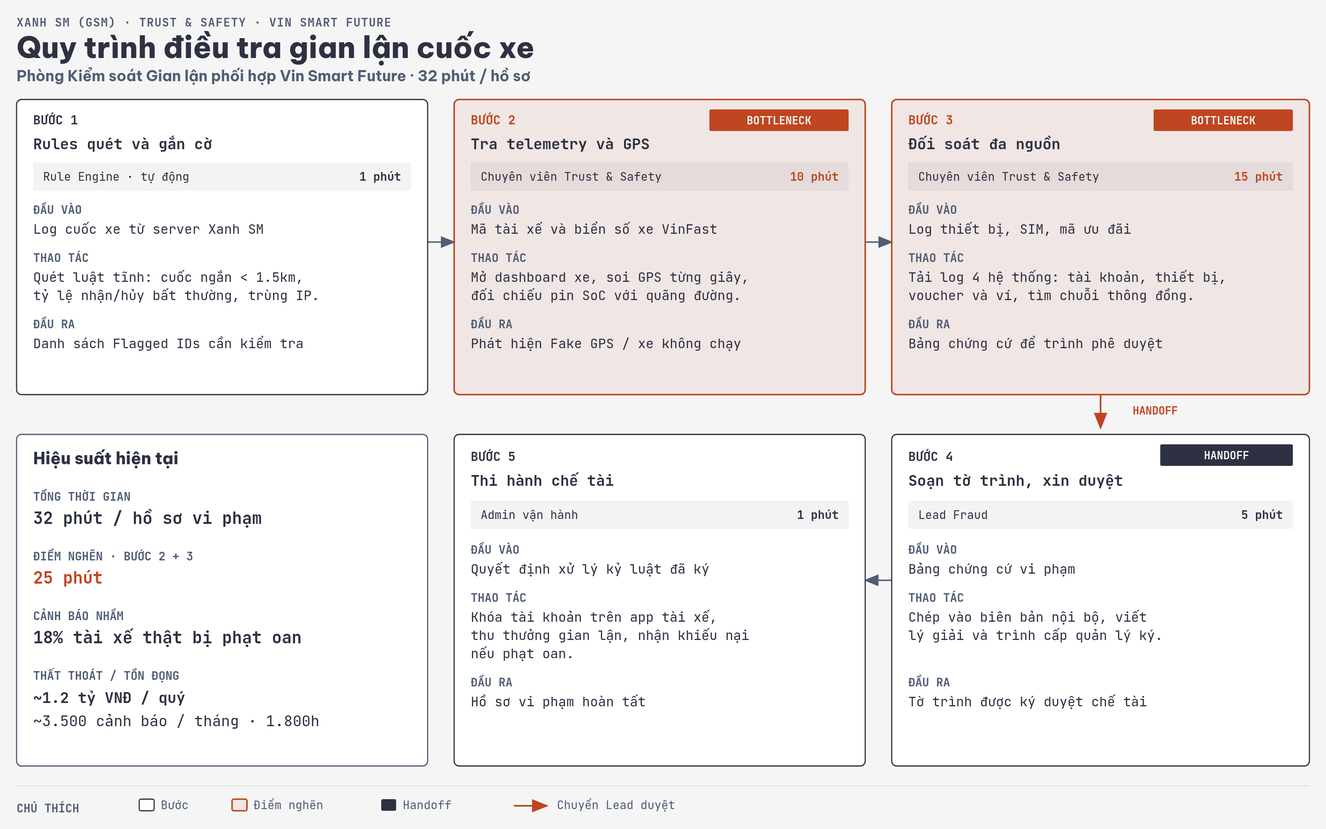
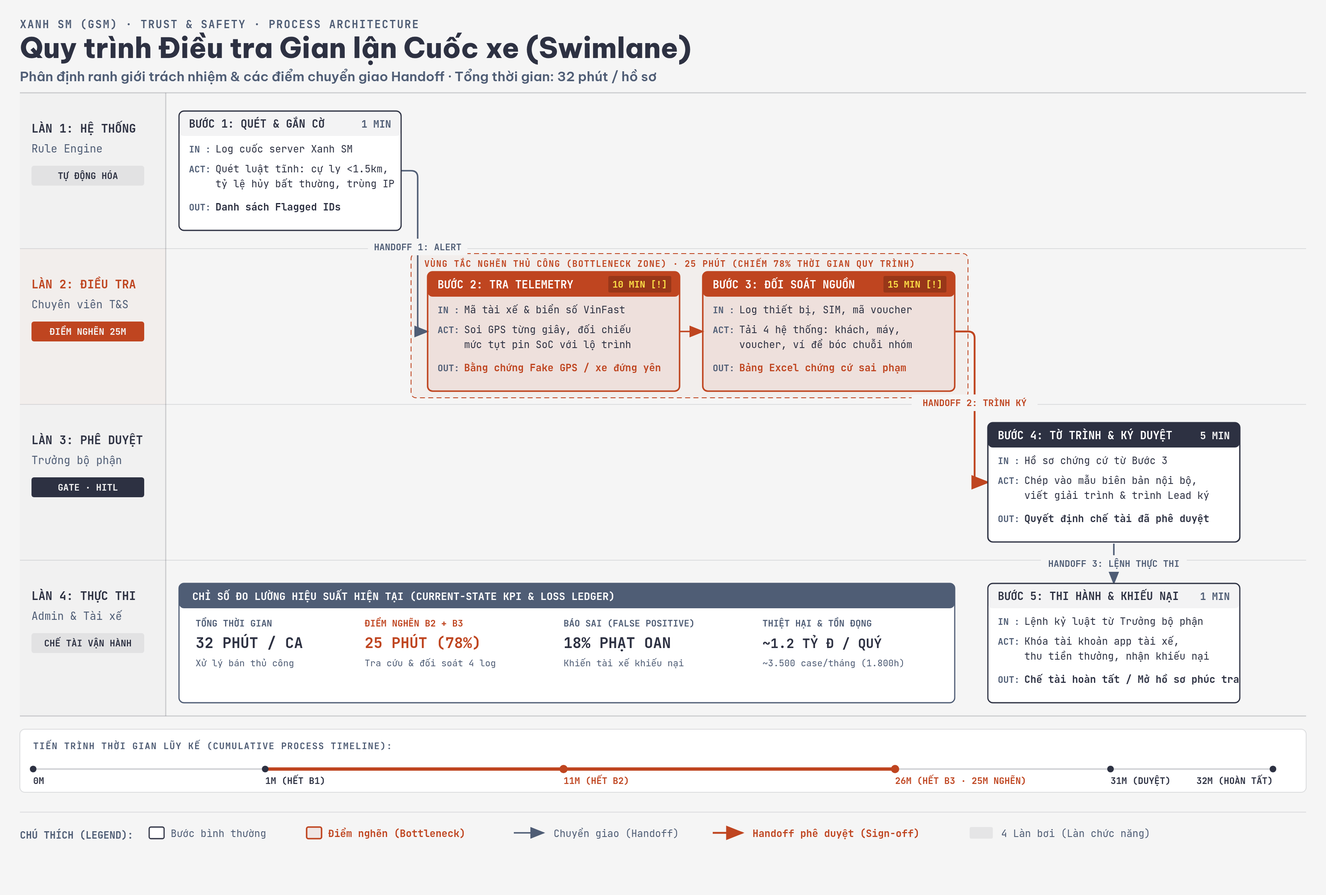
refactor: update workflow diagram to cross-functional swimlane layout

diff --git a/04-workflow-diagram.html b/04-workflow-diagram.html
@@ -3,7 +3,7 @@
 <head>
   <meta charset="UTF-8">
   <meta name="viewport" content="width=device-width, initial-scale=1.0">
-  <title>Quy trình điều tra gian lận hiện tại</title>
+  <title>Quy trình điều tra gian lận hiện tại · Swimlane</title>
   <link href="https://fonts.googleapis.com/css2?family=Be+Vietnam+Pro:wght@600;700;800&family=JetBrains+Mono:wght@400;500;600;700&display=swap" rel="stylesheet">
   <style>
     *, *::before, *::after { box-sizing: border-box; margin: 0; padding: 0; }
@@ -31,7 +31,7 @@
       font-family: var(--font-mono);
       font-size: 0.85rem;
       font-weight: 700;
-      letter-spacing: 0.12em;
+      letter-spacing: 0.14em;
       text-transform: uppercase;
       color: var(--color-muted);
       margin-bottom: 0.35rem;
@@ -53,131 +53,235 @@
 </head>
 <body>
   <div class="frame">
-    <p class="eyebrow">Xanh SM · Current-state workflow</p>
+    <p class="eyebrow">Xanh SM · Cross-functional Swimlane · Current-state</p>
     <h1>Quy trình điều tra gian lận cuốc xe</h1>
     <div class="diagram-container">
-      <svg viewBox="0 0 1600 1000" xmlns="http://www.w3.org/2000/svg" role="img" aria-labelledby="workflow-title workflow-desc">
-        <title id="workflow-title">Quy trình điều tra gian lận hiện tại</title>
-        <desc id="workflow-desc">Năm bước điều tra cuốc xe ảo tại Xanh SM, kèm đầu vào, thao tác và đầu ra. Bước tra GPS và đối soát log là điểm nghẽn, tổng 32 phút mỗi hồ sơ.</desc>
+      <svg viewBox="0 0 1600 1080" xmlns="http://www.w3.org/2000/svg" role="img" aria-labelledby="workflow-title workflow-desc">
+        <title id="workflow-title">Quy trình điều tra gian lận hiện tại (Swimlane)</title>
+        <desc id="workflow-desc">Sơ đồ swimlane 4 làn phân định trách nhiệm điều tra gian lận cuốc xe tại Xanh SM: Rule Engine, Chuyên viên Trust and Safety, Lead phê duyệt, Admin thực thi. Nổi bật hai điểm nghẽn 25 phút và các điểm bàn giao handoff.</desc>
         <defs>
           <marker id="arrow" markerWidth="10" markerHeight="8" refX="9" refY="4" orient="auto"><polygon points="0 0, 10 4, 0 8" fill="#4f5d75"/></marker>
           <marker id="arrow-accent" markerWidth="10" markerHeight="8" refX="9" refY="4" orient="auto"><polygon points="0 0, 10 4, 0 8" fill="#bf4520"/></marker>
           <marker id="arrow-link" markerWidth="10" markerHeight="8" refX="9" refY="4" orient="auto"><polygon points="0 0, 10 4, 0 8" fill="#2e5aa8"/></marker>
         </defs>
-        <rect width="1600" height="1000" fill="#f5f5f5"/>
 
-        <text x="20" y="32" fill="#4f5d75" font-size="14" font-family="'JetBrains Mono', monospace" font-weight="700" letter-spacing="0.06em">XANH SM (GSM) · TRUST &amp; SAFETY · VIN SMART FUTURE</text>
-        <text x="20" y="70" fill="#2d3142" font-size="36" font-family="'Be Vietnam Pro', sans-serif" font-weight="800">Quy trình điều tra gian lận cuốc xe</text>
-        <text x="20" y="98" fill="#4f5d75" font-size="18" font-family="'Be Vietnam Pro', sans-serif" font-weight="700">Phòng Kiểm soát Gian lận phối hợp Vin Smart Future · 32 phút / hồ sơ</text>
+        <!-- Base background -->
+        <rect width="1600" height="1080" fill="#f5f5f5"/>
 
-        <line x1="516" y1="292" x2="548" y2="292" stroke="#4f5d75" stroke-width="1.8" marker-end="url(#arrow)"/>
-        <line x1="1044" y1="292" x2="1076" y2="292" stroke="#4f5d75" stroke-width="1.8" marker-end="url(#arrow)"/>
-        <line x1="1328" y1="476" x2="1328" y2="516" stroke="#bf4520" stroke-width="2" marker-end="url(#arrow-accent)"/>
-        <line x1="1076" y1="700" x2="1044" y2="700" stroke="#4f5d75" stroke-width="1.8" marker-end="url(#arrow)"/>
-        <rect x="1340" y="484" width="108" height="22" fill="#f5f5f5"/>
-        <text x="1394" y="500" fill="#bf4520" font-size="13" font-family="'JetBrains Mono', monospace" font-weight="700" text-anchor="middle">HANDOFF</text>
+        <!-- Header -->
+        <text x="24" y="34" fill="#4f5d75" font-size="13" font-family="'JetBrains Mono', monospace" font-weight="700" letter-spacing="0.10em">XANH SM (GSM) · TRUST &amp; SAFETY · PROCESS ARCHITECTURE</text>
+        <text x="24" y="70" fill="#2d3142" font-size="34" font-family="'Be Vietnam Pro', sans-serif" font-weight="800">Quy trình Điều tra Gian lận Cuốc xe (Swimlane)</text>
+        <text x="24" y="98" fill="#4f5d75" font-size="16" font-family="'Be Vietnam Pro', sans-serif" font-weight="600">Phân định ranh giới trách nhiệm &amp; các điểm chuyển giao Handoff · Tổng thời gian: 32 phút / hồ sơ</text>
 
-        <rect x="20" y="120" width="496" height="356" rx="6" fill="#ffffff" stroke="#2d3142" stroke-width="1.4"/>
-        <text x="40" y="150" fill="#2d3142" font-size="15" font-family="'JetBrains Mono', monospace" font-weight="700">BƯỚC 1</text>
-        <text x="40" y="180" fill="#2d3142" font-size="18" font-family="'JetBrains Mono', monospace" font-weight="700">Rules quét và gắn cờ</text>
-        <rect x="40" y="196" width="456" height="34" rx="2" fill="rgba(45,49,66,0.06)"/>
-        <text x="52" y="218" fill="#2d3142" font-size="14" font-family="'JetBrains Mono', monospace">Rule Engine · tự động</text>
-        <text x="484" y="218" fill="#2d3142" font-size="14" font-family="'JetBrains Mono', monospace" font-weight="700" text-anchor="end">1 phút</text>
-        <text x="40" y="258" fill="#4f5d75" font-size="14" font-family="'JetBrains Mono', monospace" font-weight="700">ĐẦU VÀO</text>
-        <text x="40" y="282" fill="#2d3142" font-size="16" font-family="'JetBrains Mono', monospace">Log cuốc xe từ server Xanh SM</text>
-        <text x="40" y="316" fill="#4f5d75" font-size="14" font-family="'JetBrains Mono', monospace" font-weight="700">THAO TÁC</text>
-        <text x="40" y="340" fill="#2d3142" font-size="16" font-family="'JetBrains Mono', monospace">Quét luật tĩnh: cuốc ngắn &lt; 1.5km,</text>
-        <text x="40" y="362" fill="#2d3142" font-size="16" font-family="'JetBrains Mono', monospace">tỷ lệ nhận/hủy bất thường, trùng IP.</text>
-        <text x="40" y="396" fill="#4f5d75" font-size="14" font-family="'JetBrains Mono', monospace" font-weight="700">ĐẦU RA</text>
-        <text x="40" y="420" fill="#2d3142" font-size="16" font-family="'JetBrains Mono', monospace">Danh sách Flagged IDs cần kiểm tra</text>
+        <!-- Lane horizontal dividers -->
+        <line x1="24" y1="112" x2="1576" y2="112" stroke="rgba(45,49,66,0.22)" stroke-width="1.2"/>
+        <line x1="24" y1="300" x2="1576" y2="300" stroke="rgba(45,49,66,0.12)" stroke-width="1"/>
+        <line x1="24" y1="488" x2="1576" y2="488" stroke="rgba(45,49,66,0.12)" stroke-width="1"/>
+        <line x1="24" y1="676" x2="1576" y2="676" stroke="rgba(45,49,66,0.12)" stroke-width="1"/>
+        <line x1="24" y1="864" x2="1576" y2="864" stroke="rgba(45,49,66,0.22)" stroke-width="1.2"/>
 
-        <rect x="548" y="120" width="496" height="356" rx="6" fill="rgba(191,69,32,0.08)" stroke="#bf4520" stroke-width="1.8"/>
-        <text x="568" y="150" fill="#bf4520" font-size="15" font-family="'JetBrains Mono', monospace" font-weight="700">BƯỚC 2</text>
-        <rect x="856" y="132" width="168" height="26" rx="2" fill="#bf4520"/>
-        <text x="940" y="150" fill="#f5f5f5" font-size="13" font-family="'JetBrains Mono', monospace" font-weight="700" text-anchor="middle">BOTTLENECK</text>
-        <text x="568" y="180" fill="#2d3142" font-size="18" font-family="'JetBrains Mono', monospace" font-weight="700">Tra telemetry và GPS</text>
-        <rect x="568" y="196" width="456" height="34" rx="2" fill="rgba(45,49,66,0.06)"/>
-        <text x="580" y="218" fill="#2d3142" font-size="14" font-family="'JetBrains Mono', monospace">Chuyên viên Trust &amp; Safety</text>
-        <text x="1012" y="218" fill="#bf4520" font-size="14" font-family="'JetBrains Mono', monospace" font-weight="700" text-anchor="end">10 phút</text>
-        <text x="568" y="258" fill="#4f5d75" font-size="14" font-family="'JetBrains Mono', monospace" font-weight="700">ĐẦU VÀO</text>
-        <text x="568" y="282" fill="#2d3142" font-size="16" font-family="'JetBrains Mono', monospace">Mã tài xế và biển số xe VinFast</text>
-        <text x="568" y="316" fill="#4f5d75" font-size="14" font-family="'JetBrains Mono', monospace" font-weight="700">THAO TÁC</text>
-        <text x="568" y="340" fill="#2d3142" font-size="16" font-family="'JetBrains Mono', monospace">Mở dashboard xe, soi GPS từng giây,</text>
-        <text x="568" y="362" fill="#2d3142" font-size="16" font-family="'JetBrains Mono', monospace">đối chiếu pin SoC với quãng đường.</text>
-        <text x="568" y="396" fill="#4f5d75" font-size="14" font-family="'JetBrains Mono', monospace" font-weight="700">ĐẦU RA</text>
-        <text x="568" y="420" fill="#2d3142" font-size="16" font-family="'JetBrains Mono', monospace">Phát hiện Fake GPS / xe không chạy</text>
+        <!-- Vertical lane boundary line -->
+        <line x1="200" y1="112" x2="200" y2="864" stroke="rgba(45,49,66,0.22)" stroke-width="1.2"/>
 
-        <rect x="1076" y="120" width="504" height="356" rx="6" fill="rgba(191,69,32,0.08)" stroke="#bf4520" stroke-width="1.8"/>
-        <text x="1096" y="150" fill="#bf4520" font-size="15" font-family="'JetBrains Mono', monospace" font-weight="700">BƯỚC 3</text>
-        <rect x="1392" y="132" width="168" height="26" rx="2" fill="#bf4520"/>
-        <text x="1476" y="150" fill="#f5f5f5" font-size="13" font-family="'JetBrains Mono', monospace" font-weight="700" text-anchor="middle">BOTTLENECK</text>
-        <text x="1096" y="180" fill="#2d3142" font-size="18" font-family="'JetBrains Mono', monospace" font-weight="700">Đối soát đa nguồn</text>
-        <rect x="1096" y="196" width="464" height="34" rx="2" fill="rgba(45,49,66,0.06)"/>
-        <text x="1108" y="218" fill="#2d3142" font-size="14" font-family="'JetBrains Mono', monospace">Chuyên viên Trust &amp; Safety</text>
-        <text x="1548" y="218" fill="#bf4520" font-size="14" font-family="'JetBrains Mono', monospace" font-weight="700" text-anchor="end">15 phút</text>
-        <text x="1096" y="258" fill="#4f5d75" font-size="14" font-family="'JetBrains Mono', monospace" font-weight="700">ĐẦU VÀO</text>
-        <text x="1096" y="282" fill="#2d3142" font-size="16" font-family="'JetBrains Mono', monospace">Log thiết bị, SIM, mã ưu đãi</text>
-        <text x="1096" y="316" fill="#4f5d75" font-size="14" font-family="'JetBrains Mono', monospace" font-weight="700">THAO TÁC</text>
-        <text x="1096" y="340" fill="#2d3142" font-size="16" font-family="'JetBrains Mono', monospace">Tải log 4 hệ thống: tài khoản, thiết bị,</text>
-        <text x="1096" y="362" fill="#2d3142" font-size="16" font-family="'JetBrains Mono', monospace">voucher và ví, tìm chuỗi thông đồng.</text>
-        <text x="1096" y="396" fill="#4f5d75" font-size="14" font-family="'JetBrains Mono', monospace" font-weight="700">ĐẦU RA</text>
-        <text x="1096" y="420" fill="#2d3142" font-size="16" font-family="'JetBrains Mono', monospace">Bảng chứng cứ để trình phê duyệt</text>
+        <!-- Left Lane Labels (Actor / Department) -->
+        <!-- Lane 1: Rule Engine -->
+        <rect x="24" y="112" width="176" height="188" fill="rgba(45,49,66,0.02)"/>
+        <text x="38" y="160" fill="#2d3142" font-size="14" font-family="'JetBrains Mono', monospace" font-weight="700">LÀN 1: HỆ THỐNG</text>
+        <text x="38" y="184" fill="#4f5d75" font-size="13" font-family="'JetBrains Mono', monospace">Rule Engine</text>
+        <rect x="38" y="200" width="136" height="24" rx="3" fill="rgba(45,49,66,0.08)"/>
+        <text x="106" y="216" fill="#2d3142" font-size="11" font-family="'JetBrains Mono', monospace" font-weight="700" text-anchor="middle">TỰ ĐỘNG HÓA</text>
 
-        <line x1="1328" y1="476" x2="1328" y2="516" stroke="#bf4520" stroke-width="2" marker-end="url(#arrow-accent)"/>
+        <!-- Lane 2: Trust & Safety Analyst -->
+        <rect x="24" y="300" width="176" height="188" fill="rgba(191,69,32,0.04)"/>
+        <text x="38" y="348" fill="#bf4520" font-size="14" font-family="'JetBrains Mono', monospace" font-weight="700">LÀN 2: ĐIỀU TRA</text>
+        <text x="38" y="372" fill="#4f5d75" font-size="13" font-family="'JetBrains Mono', monospace">Chuyên viên T&amp;S</text>
+        <rect x="38" y="388" width="136" height="24" rx="3" fill="#bf4520"/>
+        <text x="106" y="404" fill="#f5f5f5" font-size="11" font-family="'JetBrains Mono', monospace" font-weight="700" text-anchor="middle">ĐIỂM NGHẼN 25M</text>
 
-        <rect x="20" y="524" width="496" height="400" rx="6" fill="#ffffff" stroke="#4f5d75" stroke-width="1.4"/>
-        <text x="40" y="560" fill="#2d3142" font-size="20" font-family="'Be Vietnam Pro', sans-serif" font-weight="800">Hiệu suất hiện tại</text>
-        <text x="40" y="604" fill="#4f5d75" font-size="14" font-family="'JetBrains Mono', monospace" font-weight="700">TỔNG THỜI GIAN</text>
-        <text x="40" y="632" fill="#2d3142" font-size="20" font-family="'JetBrains Mono', monospace" font-weight="700">32 phút / hồ sơ vi phạm</text>
-        <text x="40" y="676" fill="#4f5d75" font-size="14" font-family="'JetBrains Mono', monospace" font-weight="700">ĐIỂM NGHẼN · BƯỚC 2 + 3</text>
-        <text x="40" y="704" fill="#bf4520" font-size="20" font-family="'JetBrains Mono', monospace" font-weight="700">25 phút</text>
-        <text x="40" y="748" fill="#4f5d75" font-size="14" font-family="'JetBrains Mono', monospace" font-weight="700">CẢNH BÁO NHẦM</text>
-        <text x="40" y="776" fill="#2d3142" font-size="20" font-family="'JetBrains Mono', monospace" font-weight="700">18% tài xế thật bị phạt oan</text>
-        <text x="40" y="820" fill="#4f5d75" font-size="14" font-family="'JetBrains Mono', monospace" font-weight="700">THẤT THOÁT / TỒN ĐỌNG</text>
-        <text x="40" y="848" fill="#2d3142" font-size="18" font-family="'JetBrains Mono', monospace" font-weight="700">~1.2 tỷ VNĐ / quý</text>
-        <text x="40" y="876" fill="#2d3142" font-size="18" font-family="'JetBrains Mono', monospace">~3.500 cảnh báo / tháng · 1.800h</text>
+        <!-- Lane 3: Lead Fraud (Approval Gate) -->
+        <rect x="24" y="488" width="176" height="188" fill="rgba(45,49,66,0.02)"/>
+        <text x="38" y="536" fill="#2d3142" font-size="14" font-family="'JetBrains Mono', monospace" font-weight="700">LÀN 3: PHÊ DUYỆT</text>
+        <text x="38" y="560" fill="#4f5d75" font-size="13" font-family="'JetBrains Mono', monospace">Trưởng bộ phận</text>
+        <rect x="38" y="576" width="136" height="24" rx="3" fill="#2d3142"/>
+        <text x="106" y="592" fill="#f5f5f5" font-size="11" font-family="'JetBrains Mono', monospace" font-weight="700" text-anchor="middle">GATE · HITL</text>
 
-        <rect x="548" y="524" width="496" height="400" rx="6" fill="#ffffff" stroke="#2d3142" stroke-width="1.4"/>
-        <text x="568" y="556" fill="#2d3142" font-size="15" font-family="'JetBrains Mono', monospace" font-weight="700">BƯỚC 5</text>
-        <text x="568" y="586" fill="#2d3142" font-size="18" font-family="'JetBrains Mono', monospace" font-weight="700">Thi hành chế tài</text>
-        <rect x="568" y="604" width="456" height="34" rx="2" fill="rgba(45,49,66,0.06)"/>
-        <text x="580" y="626" fill="#2d3142" font-size="14" font-family="'JetBrains Mono', monospace">Admin vận hành</text>
-        <text x="1012" y="626" fill="#2d3142" font-size="14" font-family="'JetBrains Mono', monospace" font-weight="700" text-anchor="end">1 phút</text>
-        <text x="568" y="668" fill="#4f5d75" font-size="14" font-family="'JetBrains Mono', monospace" font-weight="700">ĐẦU VÀO</text>
-        <text x="568" y="692" fill="#2d3142" font-size="16" font-family="'JetBrains Mono', monospace">Quyết định xử lý kỷ luật đã ký</text>
-        <text x="568" y="726" fill="#4f5d75" font-size="14" font-family="'JetBrains Mono', monospace" font-weight="700">THAO TÁC</text>
-        <text x="568" y="750" fill="#2d3142" font-size="16" font-family="'JetBrains Mono', monospace">Khóa tài khoản trên app tài xế,</text>
-        <text x="568" y="772" fill="#2d3142" font-size="16" font-family="'JetBrains Mono', monospace">thu thưởng gian lận, nhận khiếu nại</text>
-        <text x="568" y="794" fill="#2d3142" font-size="16" font-family="'JetBrains Mono', monospace">nếu phạt oan.</text>
-        <text x="568" y="828" fill="#4f5d75" font-size="14" font-family="'JetBrains Mono', monospace" font-weight="700">ĐẦU RA</text>
-        <text x="568" y="852" fill="#2d3142" font-size="16" font-family="'JetBrains Mono', monospace">Hồ sơ vi phạm hoàn tất</text>
+        <!-- Lane 4: Admin Vận hành & Tài xế -->
+        <rect x="24" y="676" width="176" height="188" fill="rgba(45,49,66,0.02)"/>
+        <text x="38" y="724" fill="#2d3142" font-size="14" font-family="'JetBrains Mono', monospace" font-weight="700">LÀN 4: THỰC THI</text>
+        <text x="38" y="748" fill="#4f5d75" font-size="13" font-family="'JetBrains Mono', monospace">Admin &amp; Tài xế</text>
+        <rect x="38" y="764" width="136" height="24" rx="3" fill="rgba(45,49,66,0.08)"/>
+        <text x="106" y="780" fill="#2d3142" font-size="11" font-family="'JetBrains Mono', monospace" font-weight="700" text-anchor="middle">CHẾ TÀI VẬN HÀNH</text>
 
-        <rect x="1076" y="524" width="504" height="400" rx="6" fill="#ffffff" stroke="#2d3142" stroke-width="1.4"/>
-        <text x="1096" y="556" fill="#2d3142" font-size="15" font-family="'JetBrains Mono', monospace" font-weight="700">BƯỚC 4</text>
-        <rect x="1400" y="536" width="160" height="26" rx="2" fill="#2d3142"/>
-        <text x="1480" y="554" fill="#f5f5f5" font-size="13" font-family="'JetBrains Mono', monospace" font-weight="700" text-anchor="middle">HANDOFF</text>
-        <text x="1096" y="586" fill="#2d3142" font-size="18" font-family="'JetBrains Mono', monospace" font-weight="700">Soạn tờ trình, xin duyệt</text>
-        <rect x="1096" y="604" width="464" height="34" rx="2" fill="rgba(45,49,66,0.06)"/>
-        <text x="1108" y="626" fill="#2d3142" font-size="14" font-family="'JetBrains Mono', monospace">Lead Fraud</text>
-        <text x="1548" y="626" fill="#2d3142" font-size="14" font-family="'JetBrains Mono', monospace" font-weight="700" text-anchor="end">5 phút</text>
-        <text x="1096" y="668" fill="#4f5d75" font-size="14" font-family="'JetBrains Mono', monospace" font-weight="700">ĐẦU VÀO</text>
-        <text x="1096" y="692" fill="#2d3142" font-size="16" font-family="'JetBrains Mono', monospace">Bảng chứng cứ vi phạm</text>
-        <text x="1096" y="726" fill="#4f5d75" font-size="14" font-family="'JetBrains Mono', monospace" font-weight="700">THAO TÁC</text>
-        <text x="1096" y="750" fill="#2d3142" font-size="16" font-family="'JetBrains Mono', monospace">Chép vào biên bản nội bộ, viết</text>
-        <text x="1096" y="772" fill="#2d3142" font-size="16" font-family="'JetBrains Mono', monospace">lý giải và trình cấp quản lý ký.</text>
-        <text x="1096" y="828" fill="#4f5d75" font-size="14" font-family="'JetBrains Mono', monospace" font-weight="700">ĐẦU RA</text>
-        <text x="1096" y="852" fill="#2d3142" font-size="16" font-family="'JetBrains Mono', monospace">Tờ trình được ký duyệt chế tài</text>
+        <!-- Shaded Bottleneck Zone behind Steps 2 & 3 in Lane 2 -->
+        <rect x="496" y="306" width="672" height="174" rx="6" fill="rgba(191,69,32,0.04)" stroke="#bf4520" stroke-width="1" stroke-dasharray="6,4"/>
+        <text x="512" y="322" fill="#bf4520" font-size="10.5" font-family="'JetBrains Mono', monospace" font-weight="700" letter-spacing="0.08em">VÙNG TẮC NGHẼN THỦ CÔNG (BOTTLENECK ZONE) · 25 PHÚT (CHIẾM 78% THỜI GIAN QUY TRÌNH)</text>
 
-        <line x1="20" y1="948" x2="1580" y2="948" stroke="rgba(45,49,66,0.12)" stroke-width="1"/>
-        <text x="20" y="980" fill="#4f5d75" font-size="14" font-family="'JetBrains Mono', monospace" font-weight="700">CHÚ THÍCH</text>
-        <rect x="168" y="964" width="18" height="14" rx="2" fill="#ffffff" stroke="#2d3142" stroke-width="1.4"/>
-        <text x="194" y="976" fill="#4f5d75" font-size="14" font-family="'JetBrains Mono', monospace">Bước</text>
-        <rect x="280" y="964" width="18" height="14" rx="2" fill="rgba(191,69,32,0.08)" stroke="#bf4520" stroke-width="1.8"/>
-        <text x="306" y="976" fill="#4f5d75" font-size="14" font-family="'JetBrains Mono', monospace">Điểm nghẽn</text>
-        <rect x="460" y="964" width="18" height="14" rx="2" fill="#2d3142"/>
-        <text x="486" y="976" fill="#4f5d75" font-size="14" font-family="'JetBrains Mono', monospace">Handoff</text>
-        <line x1="620" y1="972" x2="660" y2="972" stroke="#bf4520" stroke-width="2" marker-end="url(#arrow-accent)"/>
-        <text x="672" y="976" fill="#4f5d75" font-size="14" font-family="'JetBrains Mono', monospace">Chuyển Lead duyệt</text>
+        <!-- CONNECTORS (DRAWN FIRST BEFORE NODES) -->
+        <!-- 1. Handoff 1: Step 1 (Lane 1) -> Step 2 (Lane 2) -->
+        <path d="M 484,206 H 496 Q 504,206 504,214 V 392 Q 504,400 512,400 H 516" fill="none" stroke="#4f5d75" stroke-width="1.8" marker-end="url(#arrow)"/>
+        <!-- Label for Handoff 1 -->
+        <rect x="444" y="288" width="120" height="20" rx="2" fill="#f5f5f5"/>
+        <text x="504" y="302" fill="#4f5d75" font-size="11" font-family="'JetBrains Mono', monospace" font-weight="700" text-anchor="middle">HANDOFF 1: ALERT</text>
+
+        <!-- 2. Step 2 -> Step 3 (Within Lane 2) -->
+        <line x1="820" y1="400" x2="848" y2="400" stroke="#bf4520" stroke-width="1.8" marker-end="url(#arrow-accent)"/>
+
+        <!-- 3. Handoff 2: Step 3 (Lane 2) -> Step 4 (Lane 3) - CRITICAL MANAGER SIGN-OFF -->
+        <path d="M 1152,400 H 1168 Q 1176,400 1176,408 V 574 Q 1176,582 1184,582 H 1192" fill="none" stroke="#bf4520" stroke-width="2.2" marker-end="url(#arrow-accent)"/>
+        <!-- Label for Handoff 2 -->
+        <rect x="1100" y="476" width="152" height="20" rx="2" fill="#f5f5f5"/>
+        <text x="1176" y="490" fill="#bf4520" font-size="11" font-family="'JetBrains Mono', monospace" font-weight="700" text-anchor="middle">HANDOFF 2: TRÌNH KÝ</text>
+
+        <!-- 4. Handoff 3: Step 4 (Lane 3) -> Step 5 (Lane 4) -->
+        <line x1="1344" y1="656" x2="1344" y2="704" stroke="#4f5d75" stroke-width="1.8" marker-end="url(#arrow)"/>
+        <!-- Label for Handoff 3 -->
+        <rect x="1256" y="670" width="176" height="20" rx="2" fill="#f5f5f5"/>
+        <text x="1344" y="684" fill="#4f5d75" font-size="11" font-family="'JetBrains Mono', monospace" font-weight="700" text-anchor="middle">HANDOFF 3: LỆNH THỰC THI</text>
+
+        <!-- STEP CARDS (NODES) -->
+
+        <!-- STEP 1: In Lane 1 (x: 216 to 484, y: 134 to 278, h: 144) -->
+        <rect x="216" y="134" width="268" height="144" rx="6" fill="#ffffff" stroke="#2d3142" stroke-width="1.4"/>
+        <rect x="216" y="134" width="268" height="30" rx="6" fill="rgba(45,49,66,0.06)"/>
+        <text x="228" y="154" fill="#2d3142" font-size="13" font-family="'JetBrains Mono', monospace" font-weight="700">BƯỚC 1: QUÉT &amp; GẮN CỜ</text>
+        <text x="472" y="154" fill="#4f5d75" font-size="12" font-family="'JetBrains Mono', monospace" font-weight="700" text-anchor="end">1 MIN</text>
+        <text x="228" y="184" fill="#4f5d75" font-size="11" font-family="'JetBrains Mono', monospace" font-weight="700">IN :</text>
+        <text x="260" y="184" fill="#2d3142" font-size="12" font-family="'JetBrains Mono', monospace">Log cuốc server Xanh SM</text>
+        <text x="228" y="208" fill="#4f5d75" font-size="11" font-family="'JetBrains Mono', monospace" font-weight="700">ACT:</text>
+        <text x="260" y="208" fill="#2d3142" font-size="12" font-family="'JetBrains Mono', monospace">Quét luật tĩnh: cự ly &lt;1.5km,</text>
+        <text x="260" y="226" fill="#2d3142" font-size="12" font-family="'JetBrains Mono', monospace">tỷ lệ hủy bất thường, trùng IP</text>
+        <text x="228" y="254" fill="#4f5d75" font-size="11" font-family="'JetBrains Mono', monospace" font-weight="700">OUT:</text>
+        <text x="260" y="254" fill="#2d3142" font-size="12" font-family="'JetBrains Mono', monospace" font-weight="700">Danh sách Flagged IDs</text>
+
+        <!-- STEP 2: In Lane 2 (x: 516 to 820, y: 328 to 472, h: 144) - BOTTLENECK 1 -->
+        <rect x="516" y="328" width="304" height="144" rx="6" fill="rgba(191,69,32,0.08)" stroke="#bf4520" stroke-width="1.8"/>
+        <rect x="516" y="328" width="304" height="30" rx="6" fill="#bf4520"/>
+        <text x="528" y="348" fill="#ffffff" font-size="13" font-family="'JetBrains Mono', monospace" font-weight="700">BƯỚC 2: TRA TELEMETRY</text>
+        <rect x="734" y="333" width="76" height="20" rx="2" fill="rgba(0,0,0,0.20)"/>
+        <text x="772" y="347" fill="#fde047" font-size="11" font-family="'JetBrains Mono', monospace" font-weight="700" text-anchor="middle">10 MIN [!]</text>
+        <text x="528" y="378" fill="#4f5d75" font-size="11" font-family="'JetBrains Mono', monospace" font-weight="700">IN :</text>
+        <text x="560" y="378" fill="#2d3142" font-size="12" font-family="'JetBrains Mono', monospace">Mã tài xế &amp; biển số VinFast</text>
+        <text x="528" y="402" fill="#4f5d75" font-size="11" font-family="'JetBrains Mono', monospace" font-weight="700">ACT:</text>
+        <text x="560" y="402" fill="#2d3142" font-size="12" font-family="'JetBrains Mono', monospace">Soi GPS từng giây, đối chiếu</text>
+        <text x="560" y="420" fill="#2d3142" font-size="12" font-family="'JetBrains Mono', monospace">mức tụt pin SoC với lộ trình</text>
+        <text x="528" y="448" fill="#4f5d75" font-size="11" font-family="'JetBrains Mono', monospace" font-weight="700">OUT:</text>
+        <text x="560" y="448" fill="#bf4520" font-size="12" font-family="'JetBrains Mono', monospace" font-weight="700">Bằng chứng Fake GPS / xe đứng yên</text>
+
+        <!-- STEP 3: In Lane 2 (x: 848 to 1152, y: 328 to 472, h: 144) - BOTTLENECK 2 -->
+        <rect x="848" y="328" width="304" height="144" rx="6" fill="rgba(191,69,32,0.08)" stroke="#bf4520" stroke-width="1.8"/>
+        <rect x="848" y="328" width="304" height="30" rx="6" fill="#bf4520"/>
+        <text x="860" y="348" fill="#ffffff" font-size="13" font-family="'JetBrains Mono', monospace" font-weight="700">BƯỚC 3: ĐỐI SOÁT NGUỒN</text>
+        <rect x="1066" y="333" width="76" height="20" rx="2" fill="rgba(0,0,0,0.20)"/>
+        <text x="1104" y="347" fill="#fde047" font-size="11" font-family="'JetBrains Mono', monospace" font-weight="700" text-anchor="middle">15 MIN [!]</text>
+        <text x="860" y="378" fill="#4f5d75" font-size="11" font-family="'JetBrains Mono', monospace" font-weight="700">IN :</text>
+        <text x="892" y="378" fill="#2d3142" font-size="12" font-family="'JetBrains Mono', monospace">Log thiết bị, SIM, mã voucher</text>
+        <text x="860" y="402" fill="#4f5d75" font-size="11" font-family="'JetBrains Mono', monospace" font-weight="700">ACT:</text>
+        <text x="892" y="402" fill="#2d3142" font-size="12" font-family="'JetBrains Mono', monospace">Tải 4 hệ thống: khách, máy,</text>
+        <text x="892" y="420" fill="#2d3142" font-size="12" font-family="'JetBrains Mono', monospace">voucher, ví để bóc chuỗi nhóm</text>
+        <text x="860" y="448" fill="#4f5d75" font-size="11" font-family="'JetBrains Mono', monospace" font-weight="700">OUT:</text>
+        <text x="892" y="448" fill="#bf4520" font-size="12" font-family="'JetBrains Mono', monospace" font-weight="700">Bảng Excel chứng cứ sai phạm</text>
+
+        <!-- STEP 4: In Lane 3 (x: 1192 to 1496, y: 510 to 654, h: 144) -->
+        <rect x="1192" y="510" width="304" height="144" rx="6" fill="#ffffff" stroke="#2d3142" stroke-width="1.6"/>
+        <rect x="1192" y="510" width="304" height="30" rx="6" fill="#2d3142"/>
+        <text x="1204" y="530" fill="#ffffff" font-size="13" font-family="'JetBrains Mono', monospace" font-weight="700">BƯỚC 4: TỜ TRÌNH &amp; KÝ DUYỆT</text>
+        <text x="1484" y="530" fill="#f5f5f5" font-size="12" font-family="'JetBrains Mono', monospace" font-weight="700" text-anchor="end">5 MIN</text>
+        <text x="1204" y="560" fill="#4f5d75" font-size="11" font-family="'JetBrains Mono', monospace" font-weight="700">IN :</text>
+        <text x="1236" y="560" fill="#2d3142" font-size="12" font-family="'JetBrains Mono', monospace">Hồ sơ chứng cứ từ Bước 3</text>
+        <text x="1204" y="584" fill="#4f5d75" font-size="11" font-family="'JetBrains Mono', monospace" font-weight="700">ACT:</text>
+        <text x="1236" y="584" fill="#2d3142" font-size="12" font-family="'JetBrains Mono', monospace">Chép vào mẫu biên bản nội bộ,</text>
+        <text x="1236" y="602" fill="#2d3142" font-size="12" font-family="'JetBrains Mono', monospace">viết giải trình &amp; trình Lead ký</text>
+        <text x="1204" y="630" fill="#4f5d75" font-size="11" font-family="'JetBrains Mono', monospace" font-weight="700">OUT:</text>
+        <text x="1236" y="630" fill="#2d3142" font-size="12" font-family="'JetBrains Mono', monospace" font-weight="700">Quyết định chế tài đã phê duyệt</text>
+
+        <!-- STEP 5: In Lane 4 (x: 1192 to 1496, y: 704 to 848, h: 144) -->
+        <rect x="1192" y="704" width="304" height="144" rx="6" fill="#ffffff" stroke="#2d3142" stroke-width="1.4"/>
+        <rect x="1192" y="704" width="304" height="30" rx="6" fill="rgba(45,49,66,0.06)"/>
+        <text x="1204" y="724" fill="#2d3142" font-size="13" font-family="'JetBrains Mono', monospace" font-weight="700">BƯỚC 5: THI HÀNH &amp; KHIẾU NẠI</text>
+        <text x="1484" y="724" fill="#4f5d75" font-size="12" font-family="'JetBrains Mono', monospace" font-weight="700" text-anchor="end">1 MIN</text>
+        <text x="1204" y="754" fill="#4f5d75" font-size="11" font-family="'JetBrains Mono', monospace" font-weight="700">IN :</text>
+        <text x="1236" y="754" fill="#2d3142" font-size="12" font-family="'JetBrains Mono', monospace">Lệnh kỷ luật từ Trưởng bộ phận</text>
+        <text x="1204" y="778" fill="#4f5d75" font-size="11" font-family="'JetBrains Mono', monospace" font-weight="700">ACT:</text>
+        <text x="1236" y="778" fill="#2d3142" font-size="12" font-family="'JetBrains Mono', monospace">Khóa tài khoản app tài xế,</text>
+        <text x="1236" y="796" fill="#2d3142" font-size="12" font-family="'JetBrains Mono', monospace">thu tiền thưởng, nhận khiếu nại</text>
+        <text x="1204" y="824" fill="#4f5d75" font-size="11" font-family="'JetBrains Mono', monospace" font-weight="700">OUT:</text>
+        <text x="1236" y="824" fill="#2d3142" font-size="12" font-family="'JetBrains Mono', monospace" font-weight="700">Chế tài hoàn tất / Mở hồ sơ phúc tra</text>
+
+        <!-- KPI SUMMARY BOX: In Lane 4 Left (x: 216 to 1132, y: 704 to 848, h: 144) -->
+        <rect x="216" y="704" width="936" height="144" rx="6" fill="#ffffff" stroke="#4f5d75" stroke-width="1.4"/>
+        <rect x="216" y="704" width="936" height="30" rx="6" fill="#4f5d75"/>
+        <text x="232" y="724" fill="#ffffff" font-size="12.5" font-family="'JetBrains Mono', monospace" font-weight="700">CHỈ SỐ ĐO LƯỜNG HIỆU SUẤT HIỆN TẠI (CURRENT-STATE KPI &amp; LOSS LEDGER)</text>
+        <!-- 4 columns of stats inside this wide box -->
+        <!-- Col 1: Total time -->
+        <text x="236" y="756" fill="#4f5d75" font-size="11" font-family="'JetBrains Mono', monospace" font-weight="700">TỔNG THỜI GIAN</text>
+        <text x="236" y="782" fill="#2d3142" font-size="18" font-family="'JetBrains Mono', monospace" font-weight="700">32 PHÚT / CA</text>
+        <text x="236" y="804" fill="#4f5d75" font-size="11" font-family="'JetBrains Mono', monospace">Xử lý bán thủ công</text>
+
+        <!-- Col 2: Bottleneck time -->
+        <text x="440" y="756" fill="#bf4520" font-size="11" font-family="'JetBrains Mono', monospace" font-weight="700">ĐIỂM NGHẼN B2 + B3</text>
+        <text x="440" y="782" fill="#bf4520" font-size="18" font-family="'JetBrains Mono', monospace" font-weight="700">25 PHÚT (78%)</text>
+        <text x="440" y="804" fill="#4f5d75" font-size="11" font-family="'JetBrains Mono', monospace">Tra cứu &amp; đối soát 4 log</text>
+
+        <!-- Col 3: False positive -->
+        <text x="680" y="756" fill="#4f5d75" font-size="11" font-family="'JetBrains Mono', monospace" font-weight="700">BÁO SAI (FALSE POSITIVE)</text>
+        <text x="680" y="782" fill="#2d3142" font-size="18" font-family="'JetBrains Mono', monospace" font-weight="700">18% PHẠT OAN</text>
+        <text x="680" y="804" fill="#4f5d75" font-size="11" font-family="'JetBrains Mono', monospace">Khiến tài xế khiếu nại</text>
+
+        <!-- Col 4: Financial loss & Backlog -->
+        <text x="920" y="756" fill="#4f5d75" font-size="11" font-family="'JetBrains Mono', monospace" font-weight="700">THIỆT HẠI &amp; TỒN ĐỌNG</text>
+        <text x="920" y="782" fill="#2d3142" font-size="16" font-family="'JetBrains Mono', monospace" font-weight="700">~1.2 TỶ Đ / QUÝ</text>
+        <text x="920" y="804" fill="#4f5d75" font-size="11" font-family="'JetBrains Mono', monospace">~3.500 case/tháng (1.800h)</text>
+
+        <!-- TIMELINE RULER (y: 884 to 964) -->
+        <rect x="24" y="880" width="1552" height="76" rx="6" fill="#ffffff" stroke="rgba(45,49,66,0.14)" stroke-width="1"/>
+        <text x="40" y="904" fill="#4f5d75" font-size="11" font-family="'JetBrains Mono', monospace" font-weight="700" letter-spacing="0.08em">TIẾN TRÌNH THỜI GIAN LŨY KẾ (CUMULATIVE PROCESS TIMELINE):</text>
+        <!-- Horizontal track -->
+        <line x1="40" y1="928" x2="1536" y2="928" stroke="rgba(45,49,66,0.20)" stroke-width="2"/>
+        <!-- Bottleneck segment highlighted in coral -->
+        <line x1="320" y1="928" x2="1080" y2="928" stroke="#bf4520" stroke-width="4"/>
+
+        <!-- Milestone 0m -->
+        <circle cx="40" cy="928" r="4" fill="#2d3142"/>
+        <text x="40" y="946" fill="#2d3142" font-size="11" font-family="'JetBrains Mono', monospace" font-weight="700">0M</text>
+
+        <!-- Milestone 1m (End B1) -->
+        <circle cx="320" cy="928" r="4" fill="#2d3142"/>
+        <text x="320" y="946" fill="#2d3142" font-size="11" font-family="'JetBrains Mono', monospace" font-weight="700">1M (HẾT B1)</text>
+
+        <!-- Milestone 11m (End B2) -->
+        <circle cx="680" cy="928" r="5" fill="#bf4520"/>
+        <text x="680" y="946" fill="#bf4520" font-size="11" font-family="'JetBrains Mono', monospace" font-weight="700">11M (HẾT B2)</text>
+
+        <!-- Milestone 26m (End B3) -->
+        <circle cx="1080" cy="928" r="5" fill="#bf4520"/>
+        <text x="1080" y="946" fill="#bf4520" font-size="11" font-family="'JetBrains Mono', monospace" font-weight="700">26M (HẾT B3 · 25M NGHẼN)</text>
+
+        <!-- Milestone 31m (End B4) -->
+        <circle cx="1340" cy="928" r="4" fill="#2d3142"/>
+        <text x="1340" y="946" fill="#2d3142" font-size="11" font-family="'JetBrains Mono', monospace" font-weight="700">31M (DUYỆT)</text>
+
+        <!-- Milestone 32m (End B5) -->
+        <circle cx="1536" cy="928" r="4" fill="#2d3142"/>
+        <text x="1536" y="946" fill="#2d3142" font-size="11" font-family="'JetBrains Mono', monospace" font-weight="700" text-anchor="end">32M (HOÀN TẤT)</text>
+
+        <!-- FOOTER / LEGEND (y: 984 to 1056) -->
+        <line x1="24" y1="980" x2="1576" y2="980" stroke="rgba(45,49,66,0.12)" stroke-width="1"/>
+        <text x="24" y="1012" fill="#4f5d75" font-size="12" font-family="'JetBrains Mono', monospace" font-weight="700">CHÚ THÍCH (LEGEND):</text>
+
+        <rect x="180" y="998" width="18" height="14" rx="2" fill="#ffffff" stroke="#2d3142" stroke-width="1.4"/>
+        <text x="206" y="1010" fill="#4f5d75" font-size="12" font-family="'JetBrains Mono', monospace">Bước bình thường</text>
+
+        <rect x="370" y="998" width="18" height="14" rx="2" fill="rgba(191,69,32,0.08)" stroke="#bf4520" stroke-width="1.8"/>
+        <text x="396" y="1010" fill="#bf4520" font-size="12" font-family="'JetBrains Mono', monospace" font-weight="700">Điểm nghẽn (Bottleneck)</text>
+
+        <line x1="620" y1="1005" x2="656" y2="1005" stroke="#4f5d75" stroke-width="1.8" marker-end="url(#arrow)"/>
+        <text x="668" y="1010" fill="#4f5d75" font-size="12" font-family="'JetBrains Mono', monospace">Chuyển giao (Handoff)</text>
+
+        <line x1="860" y1="1005" x2="896" y2="1005" stroke="#bf4520" stroke-width="2.2" marker-end="url(#arrow-accent)"/>
+        <text x="908" y="1010" fill="#bf4520" font-size="12" font-family="'JetBrains Mono', monospace" font-weight="700">Handoff phê duyệt (Sign-off)</text>
+
+        <rect x="1170" y="998" width="28" height="14" rx="2" fill="rgba(45,49,66,0.08)"/>
+        <text x="1208" y="1010" fill="#4f5d75" font-size="12" font-family="'JetBrains Mono', monospace">4 Làn bơi (Làn chức năng)</text>
       </svg>
     </div>
   </div>
